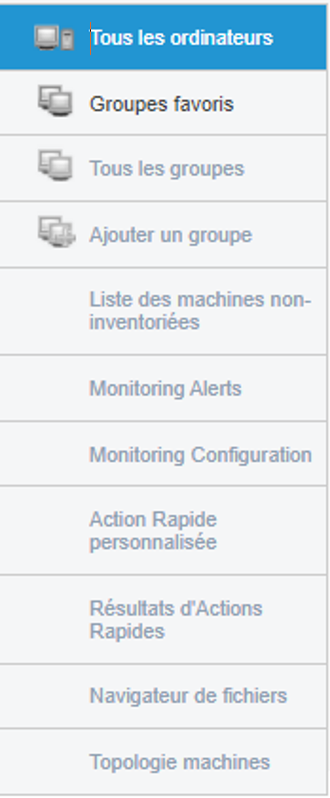
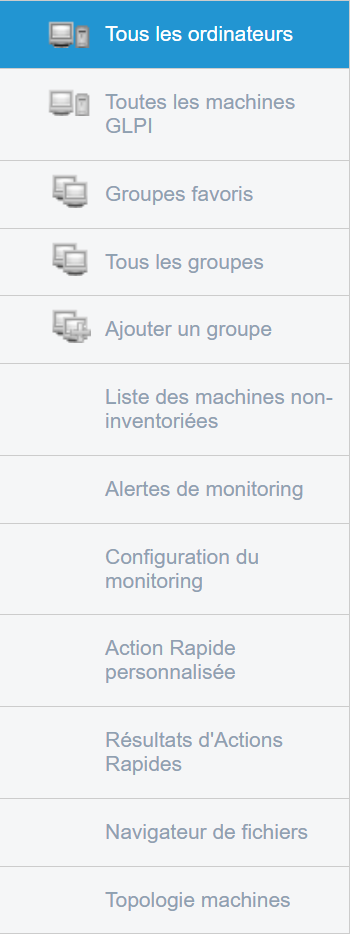
[manual] Correct screens to make them more up-to-date and adding descriptions

Changed region(s): [[0.0, 0.0, 1.0, 1.0]]

diff --git a/docs/computers/index.rst b/docs/computers/index.rst
@@ -21,17 +21,19 @@ Menu Ordinateurs
 
 .. image:: images/menu.png
 
-**Groupes favoris** : Affiche les groupes d’ordinateur favoris ;
-**Tous les groupes** : Affiche tous les groupes d’ordinateurs ;
-**Ajouter un groupe** : Permet d’ajouter un groupe d’ordinateurs ;                          
-**Liste des machines non-inventoriées** : Affiche les ordinateurs absents de l’inventaire ;
-**Monitoring Alerts** : Affiche les alertes de monitoring ;
-**Monitoring Configuration** : Configure les alertes de monitoring ;
-**Action Rapide personnalisée** : Liste des actions rapides ;
-**Résultats d'Actions Rapides** : Affiche les résultats des actions rapides ;
-**Navigateur de fichiers** : Ouvre le navigateur de fichiers ;
-**Topologie machines** : Offre une vue par topologie de machines.
-
+| **Tous les ordinateurs** : Affiche les machines présentes dans Pulse;
+| **Toutes les machines GLPI** : Affiche les machines présentes dans GLPI;
+| **Groupes favoris** : Affiche les groupes d’ordinateur favoris ;
+| **Tous les groupes** : Affiche tous les groupes d’ordinateurs ;
+| **Ajouter un groupe** : Permet d’ajouter un groupe d’ordinateurs ;                          
+| **Liste des machines non-inventoriées** : Affiche les ordinateurs absents de l’inventaire ;
+| **Alertes de monitoring** : Affiche les alertes de monitoring ;
+| **Configuration du monitoring** : Configure les alertes de monitoring ;
+| **Action Rapide personnalisée** : Liste les actions rapides personnalisées ;
+| **Résultats d'Actions Rapides** : Affiche les résultats des actions rapides ;
+| **Navigateur de fichiers** : Ouvre le navigateur de fichiers ;
+| **Topologie machines** : Offre une vue par topologie de machines.
+|
 | La vue Ordinateurs vous permet d'avoir la liste complète des machines avec la possibilité de voir ce que possède chaque machine en cliquant sur celle-ci. 
 | C'est également depuis cette vue que des opérations pourront être effectuées sur les machines via le menu d'actions.
 
